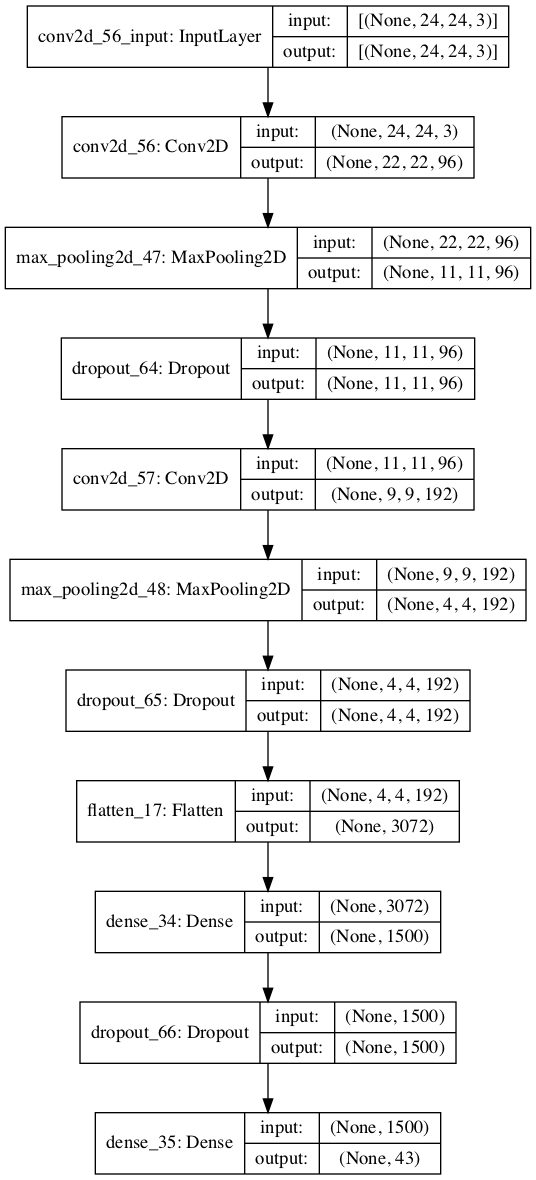
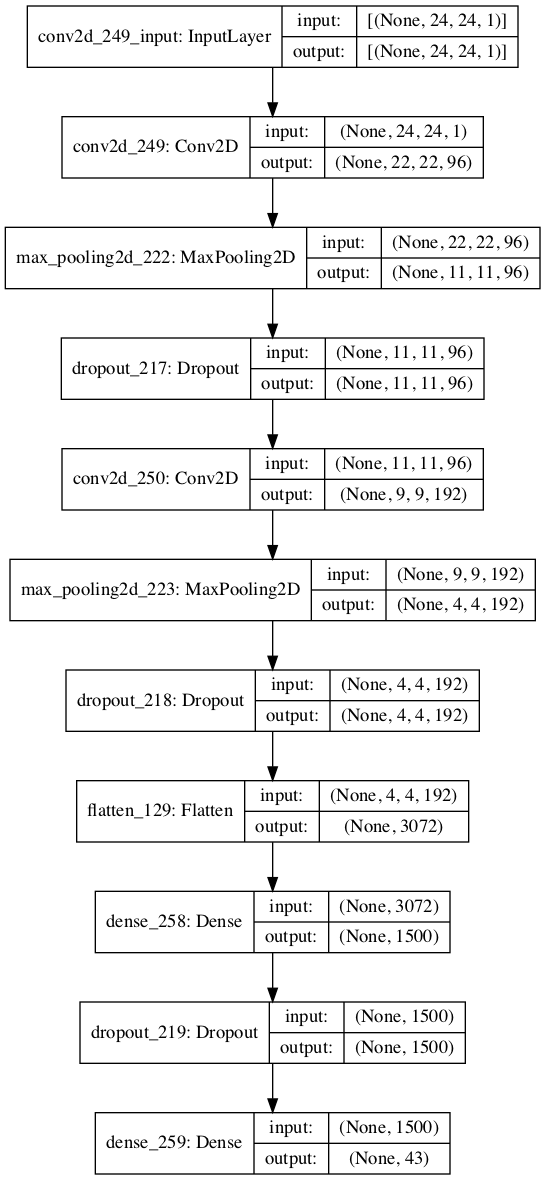
first result small dataset

diff --git a/cnn_models.py b/cnn_models.py
@@ -16,6 +16,8 @@ import h5py
 from keras.utils.vis_utils import plot_model
 from sklearn.model_selection import KFold
 
+import json
+
 from keras.models import Sequential
 from keras.layers import Dense
 from keras.layers import Conv2D
@@ -106,6 +108,9 @@ def get_model_v2(lx,ly,lz):
     model.add(Dense(512, activation='relu'))
     model.add(Dropout(0.5))
     model.add(Dense(43, activation='softmax'))
+    
+    plot_model(model, to_file='model_V2_plot.png', show_shapes=True, show_layer_names=True)
+    
     return model
 
 def get_model_v3(lx,ly,lz):
@@ -132,6 +137,9 @@ def get_model_v3(lx,ly,lz):
     model.add(Dropout(0.5))
 
     model.add(Dense(43, activation='softmax'))
+    
+    plot_model(model, to_file='model_V3_plot.png', show_shapes=True, show_layer_names=True)
+    
     return model
 
 # plot diagnostic learning curves
@@ -162,13 +170,26 @@ def summarize_performance(scores):
 enhanced_dir = './data/enhanced'
 final_dir = './data/final'
 
-dataset_name = 'set-24x24-RGB'
-batch_size = 64
+dataset_name = 'set-24x24-'
+batch_size = 32
 epochs = 5
 scale = 1
 
+# variables
+quality_label = ['RGB', 'RGB-HE', 'L', 'L-LHE']
+fn_models = [get_model_v0, get_model_v1, get_model_v2, get_model_v3]
+results = [
+    { 'accuracy': list(), 'std': list() },
+    { 'accuracy': list(), 'std': list() },
+    { 'accuracy': list(), 'std': list() },
+    { 'accuracy': list(), 'std': list() }
+]
+
+
+
+
 # ***** Evalution of the Model using Kfold *****
-def evaluate_model_kfold(dataX, dataY, fn_model, n_folds=5):
+def evaluate_model_kfold(dataX, dataY, fn_model, n_folds=3):
     scores, histories = list(), list()
     kfold = KFold(n_folds, shuffle=True, random_state=1)
     (n, lx, ly, lz) = dataX.shape
@@ -191,8 +212,9 @@ def evaluate_model_kfold(dataX, dataY, fn_model, n_folds=5):
         # keep track
         scores.append(accuracy)
         histories.append(history)
-    summarize_diagnostics(histories)
-    summarize_performance(scores)
+    return scores
+    # summarize_diagnostics(histories)
+    # summarize_performance(scores)
     
 
 def evaluate_model(dataX, dataY, testX, testY, fn_model):
@@ -213,21 +235,25 @@ def evaluate_model(dataX, dataY, testX, testY, fn_model):
 
 def run_model():
     # import the dataset
-    x_train, y_train, x_test,y_test, x_meta, y_meta = read_dataset(final_dir, dataset_name)
+    # x_train, y_train, x_test,y_test, x_meta, y_meta = read_dataset(enhanced_dir, dataset_name)
     # show example of data
     # pyplot.imshow(x_train[1], interpolation='nearest')
     # pyplot.show()
     
     # Evaluate with KFold
-    evaluate_model_kfold(x_train, y_train, get_model_v1)
+    for k in range(4):
+        for quality in quality_label:
+            x_train, y_train, x_test,y_test, x_meta, y_meta = read_dataset(enhanced_dir, f'{dataset_name}{quality}')
+            scores = evaluate_model_kfold(x_train, y_train, fn_models[k])
+            results[k]['accuracy'].append(mean(scores)*100)
+            results[k]['std'].append(std(scores)*100)
+            print('Model v%d: accuracy=%.3f , std=%.3f' % (k, mean(scores)*100, std(scores)*100))
     
+    with open('result.txt', 'w') as outfile:
+        json.dump(results, outfile)
+    # We save the result
     # Evaluate directly
-    # evaluate_model(x_train, y_train, x_test, y_test, get_model_v1)
-    
-
+    # evaluate_model(x_train, y_train, x_test, y_test, get_model_v0)
 
 run_model()
-
-
-
 

diff --git a/results_models.py b/results_models.py
@@ -1,0 +1,35 @@
+#!/usr/bin/env python3
+# -*- coding: utf-8 -*-
+"""
+Created on Tue Mar 16 19:51:00 2021
+
+@author: renaud
+"""
+
+from matplotlib import pyplot
+import json
+
+x_label = ['RGB', 'RGB-HE', 'L', 'L-LHE']
+colors = ['blue', 'red', 'green', "pink"]
+positions = [1, -1.5, 1, -1.5]
+
+# params
+batch_size = 32
+epochs = 5
+nfold = 3
+
+with open('result.txt') as json_file:
+    results = json.load(json_file)
+
+fig = pyplot.figure()
+ax = fig.add_subplot(111)
+pyplot.title('Result 24x24 img dataset GTSRB, small quantity')
+for k in range(4):
+    pyplot.plot(results[k]['accuracy'], color=colors[k], label=f'v{k}', marker='o')
+    for i, v in enumerate(results[k]['accuracy']):
+        ax.annotate("%.2f" % v, xy=(i,v), xytext=(-7,positions[k]*10), color=colors[k], textcoords='offset points')
+pyplot.xlabel("Dataset image treatment")
+pyplot.ylabel("Model Accuracy")
+pyplot.xticks([0,1,2,3],x_label)
+pyplot.legend(loc="center right")
+pyplot.show()
